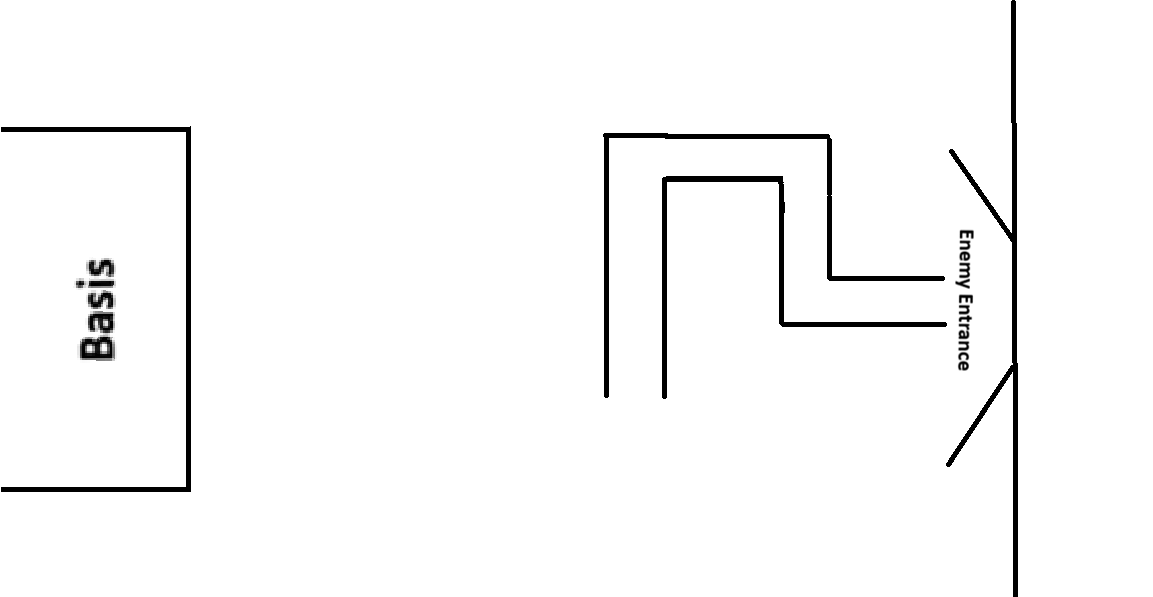
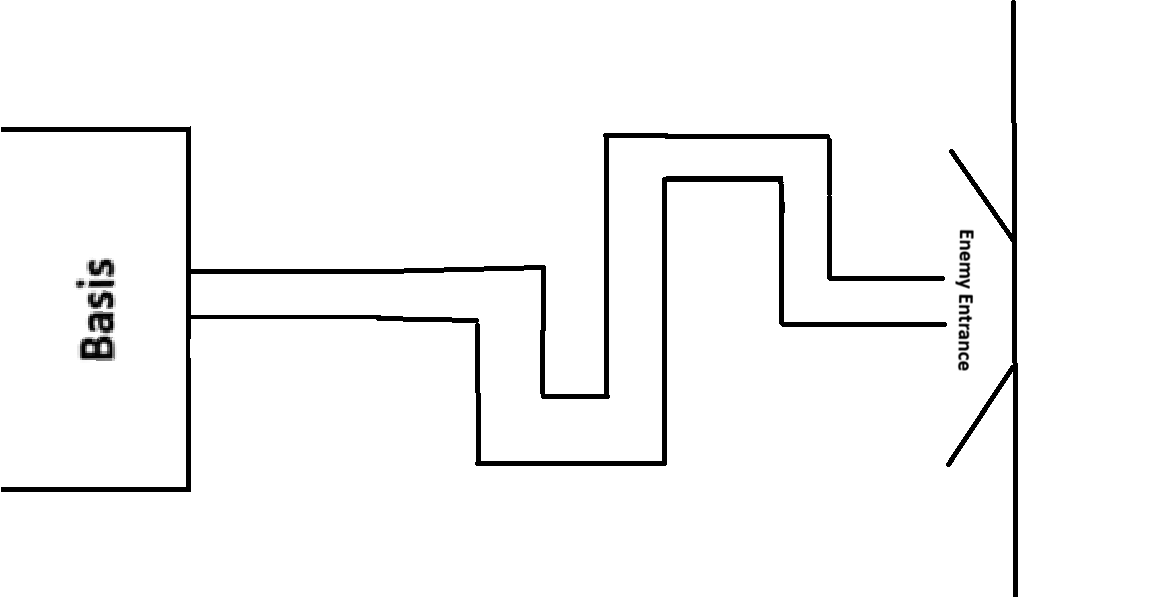
yeeeee :D

diff --git a/README.md b/README.md
@@ -1,4 +1,8 @@
 # TowerDefenseShenanigens
 ## afgekort TDS
 
-## 
+## Spull voor de game
+
+[kaart](Map.png)
+
+dit is de basic layout voor de map van het spel. De enemies komen van een punt van de map en lopen naar de main basis waarbij ze damage doen. Ik weet niet zeker of ik de basis echt ga houden, maar dat zie ik wel.
